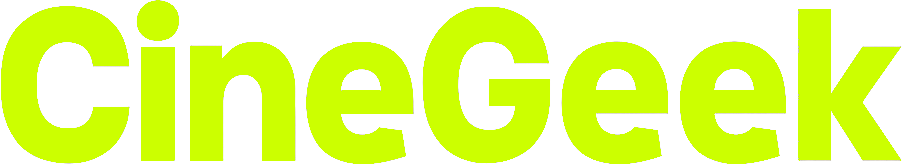
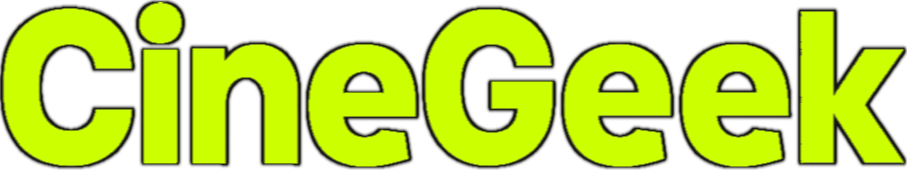
fix tema chiaro e rifiniture

Changed region(s): [[0.0, 0.0, 1.0, 1.0], [0.9313, 0.5758, 0.9623, 0.6667]]

diff --git a/lib/UI/pages/profile.dart b/lib/UI/pages/profile.dart
@@ -1,9 +1,10 @@
+import 'package:cinegeek/UI/widgets/top_bar.dart';
 import 'package:flutter/material.dart';
 import 'package:firebase_auth/firebase_auth.dart';
 import '../../model/app_user.dart';
 import '../../services/auth_service.dart';
 import '../widgets/top_bar.dart';
-import 'movie_grid_page.dart';
+import 'movie_grid_page.dart'; 
 import 'LogInSignUp/auth_landing_page.dart';
 
 class Profile extends StatefulWidget {
@@ -24,7 +25,6 @@ class _ProfileState extends State<Profile> {
     _loadUserData();
   }
 
-  //per caricare i dati dell'utente direttament da firebase
   Future<void> _loadUserData() async {
     final user = await _authService.getCurrentUser();
     if (mounted) {
@@ -35,11 +35,9 @@ class _ProfileState extends State<Profile> {
     }
   }
 
-  //funzione logout
   Future<void> _handleLogout() async {
     await _authService.logOut();
     if (mounted) {
-      //toglie l'utente e fa alla schermata di login
       Navigator.of(context).pushAndRemoveUntil(
         MaterialPageRoute(builder: (context) => const AuthLandingPage()),
         (route) => false,
@@ -49,9 +47,13 @@ class _ProfileState extends State<Profile> {
 
   @override
   Widget build(BuildContext context) {
+    final colorScheme = Theme.of(context).colorScheme;
+    final textTheme = Theme.of(context).textTheme;
+
     if (_isLoading) {
       return const Scaffold(body: Center(child: CircularProgressIndicator()));
     }
+
     if (_currentUser == null) {
       return const Scaffold(body: Center(child: Text("Utente non trovato")));
     }
@@ -66,28 +68,30 @@ class _ProfileState extends State<Profile> {
               child: Column(
                 crossAxisAlignment: CrossAxisAlignment.center,
                 children: [
-                  CircleAvatar( //avatar di default a prescindere perchè a pagamento su firebase
+                  //avatar
+                  CircleAvatar(
                     radius: 55,
-                    backgroundColor: Colors.grey.shade800,
+                    backgroundColor: Colors.grey.shade400,
                     backgroundImage: _currentUser!.propicURL.isNotEmpty
                         ? NetworkImage(_currentUser!.propicURL) as ImageProvider
-                        : const AssetImage('assets/images/default_avatar.png'),
+                        : null,
                     child: _currentUser!.propicURL.isEmpty 
                         ? const Icon(Icons.person, size: 50, color: Colors.white) 
                         : null,
                   ),
                   const SizedBox(height: 16),
 
-                  //username che prende da firebase
+                  //username
                   Text(
                     _currentUser!.username,
-                    style: Theme.of(context).textTheme.headlineSmall?.copyWith(
+                    style: textTheme.headlineSmall?.copyWith(
                           fontWeight: FontWeight.bold,
+                          color: colorScheme.onSurface,
                         ),
                   ),
                   Text(
                     _currentUser!.email,
-                    style: Theme.of(context).textTheme.bodyMedium?.copyWith(
+                    style: textTheme.bodyMedium?.copyWith(
                           color: Colors.grey,
                         ),
                   ),
@@ -105,7 +109,7 @@ class _ProfileState extends State<Profile> {
                     },
                   ),
 
-                  //watchlist collegata a firebase
+                  //watchlist
                   _ProfileMenuItem(
                     title: 'Watchlist',
                     icon: Icons.bookmark_border,
@@ -114,7 +118,7 @@ class _ProfileState extends State<Profile> {
                         context,
                         MaterialPageRoute(
                           builder: (_) => MovieGridPage(
-                            userId: _currentUser!.uid,  //si passa uid e non direttamente l'username
+                            userId: _currentUser!.uid,
                             title: 'Watchlist',
                             type: MovieCollectionType.watchlist,
                           ),
@@ -123,7 +127,7 @@ class _ProfileState extends State<Profile> {
                     },
                   ),
 
-                  //liked collegata a firebase
+                  //liked
                   _ProfileMenuItem(
                     title: 'Film Piaciuti',
                     icon: Icons.favorite_border,
@@ -175,6 +179,21 @@ class _ProfileMenuItem extends StatelessWidget {
 
   @override
   Widget build(BuildContext context) {
+    //vede se tema chiaro o scuro
+    final isDark = Theme.of(context).brightness == Brightness.dark;
+
+    final Color contentColor = isDestructive 
+        ? Colors.red 
+        : (isDark ? Colors.white : Colors.black87);
+
+    final Color boxColor = isDark 
+        ? Colors.white.withOpacity(0.05) 
+        : Colors.black.withOpacity(0.05);
+
+    final Color borderColor = isDark 
+        ? Colors.white.withOpacity(0.1) 
+        : Colors.black.withOpacity(0.1);
+
     return Padding(
       padding: const EdgeInsets.symmetric(vertical: 8.0),
       child: InkWell(
@@ -183,25 +202,29 @@ class _ProfileMenuItem extends StatelessWidget {
         child: Container(
           padding: const EdgeInsets.symmetric(vertical: 16, horizontal: 16),
           decoration: BoxDecoration(
-            color: Colors.white.withOpacity(0.05),
+            color: boxColor,
             borderRadius: BorderRadius.circular(12),
-            border: Border.all(color: Colors.white.withOpacity(0.1)),
+            border: Border.all(color: borderColor),
           ),
           child: Row(
             children: [
-              Icon(icon, color: isDestructive ? Colors.red : Colors.white),
+              Icon(icon, color: contentColor),
               const SizedBox(width: 16),
               Expanded(
                 child: Text(
                   title,
                   style: TextStyle(
                     fontSize: 16,
-                    color: isDestructive ? Colors.red : Colors.white,
+                    color: contentColor,
                     fontWeight: FontWeight.w500,
                   ),
                 ),
               ),
-              Icon(Icons.arrow_forward_ios, size: 16, color: Colors.white.withOpacity(0.5)),
+              Icon(
+                Icons.arrow_forward_ios, 
+                size: 16, 
+                color: contentColor.withOpacity(0.5)
+              ),
             ],
           ),
         ),

diff --git a/lib/UI/pages/movie_grid_page.dart b/lib/UI/pages/movie_grid_page.dart
@@ -43,6 +43,7 @@ class _MovieGridPageState extends State<MovieGridPage> {
   @override
   Widget build(BuildContext context) {
     return Scaffold(
+      
       appBar: AppBar(
         title: Text(widget.title, style: const TextStyle(fontWeight: FontWeight.bold)),
         centerTitle: true,
@@ -83,12 +84,15 @@ class _MovieGridPageState extends State<MovieGridPage> {
                       ? Icons.bookmark_border 
                       : Icons.favorite_border,
                     size: 80,
-                    color: Colors.white.withOpacity(0.3),
+                    color: Theme.of(context).iconTheme.color?.withOpacity(0.3),
                   ),
                   const SizedBox(height: 16),
                   Text(
                     "Nessun film in ${widget.title}",
-                    style: TextStyle(color: Colors.white.withOpacity(0.5), fontSize: 18),
+                    style: TextStyle(
+                      color: Theme.of(context).textTheme.bodyMedium?.color?.withOpacity(0.5), 
+                      fontSize: 18
+                    ),
                   ),
                 ],
               ),

diff --git a/lib/UI/pages/home.dart b/lib/UI/pages/home.dart
@@ -6,6 +6,7 @@ import '../widgets/top_bar.dart';
 import '../widgets/movie_carousel.dart';
 import '../widgets/cineGlassButton.dart';
 import 'LogInSignUp/auth_landing_page.dart';
+import '../theme.dart';
 
 class HomePage extends StatefulWidget {
   const HomePage({super.key});
@@ -81,8 +82,12 @@ class _HomePageState extends State<HomePage> {
         if (snapshot.connectionState == ConnectionState.waiting) {
           return SizedBox(
             height: 300,
-            child: const Center(child: CircularProgressIndicator(color: Color.fromARGB(255, 204, 255, 0))),
-          );
+            child: Center( 
+              child: CircularProgressIndicator(
+                // Theme.of(context) non è costante, quindi il genitore non può essere const
+                color: Theme.of(context).iconTheme.color, 
+              ),
+            ),          );
         } 
         //controlla se c'è errore
         else if (snapshot.hasError) {

diff --git a/lib/UI/pages/movie_detail.dart b/lib/UI/pages/movie_detail.dart
@@ -29,7 +29,6 @@ class MovieDetailPage extends StatelessWidget {
     double imageWidth = isPopup ? 200 : 250;
     double imageHeight = isPopup ? 300 : 350;
     return Scaffold(
-      backgroundColor: Theme.of(context).colorScheme.surface, //sfondo material da mettere in tutte le pagine
       body: Stack(
         children: [
           //contenuto vero e proprio

diff --git a/lib/UI/pages/search_result.dart b/lib/UI/pages/search_result.dart
@@ -55,7 +55,7 @@ class _SearchResultsPageState extends State<SearchResultsPage> {
     }
 
     return Container(
-      color: Theme.of(context).colorScheme.surface,
+      color: Theme.of(context).scaffoldBackgroundColor,
       //padding per non finire sotto la nav bar
       padding: const EdgeInsets.fromLTRB(16, 50, 16, 0), 
       width: double.infinity,

diff --git a/lib/UI/pages/write_review.dart b/lib/UI/pages/write_review.dart
@@ -90,7 +90,7 @@ class _WriteReviewPageState extends State<WriteReviewPage> {
         : Colors.white.withAlpha(240);
 
     return Scaffold(
-      backgroundColor: Theme.of(context).colorScheme.surface,
+      backgroundColor: Theme.of(context).scaffoldBackgroundColor,
       body: Stack(
         children: [
           SingleChildScrollView(

diff --git a/lib/UI/widgets/top_bar.dart b/lib/UI/widgets/top_bar.dart
@@ -8,7 +8,7 @@ class TopBarLogo extends StatelessWidget {
 
   const TopBarLogo({
     super.key,
-    this.height = 20, //cambiare dimensione del logo
+    this.height = 25, //cambiare dimensione del logo
     this.showShadow = false,  //ombra di default in questo caso disattivata
   });
 

diff --git a/lib/UI/pages/review.dart b/lib/UI/pages/review.dart
@@ -35,7 +35,6 @@ class ReviewsPage extends StatelessWidget {
   @override
   Widget build(BuildContext context) {
     return Scaffold(
-      backgroundColor: Theme.of(context).colorScheme.surface,
       
       //tasto per scrivere recensioni
       floatingActionButton: Padding(
